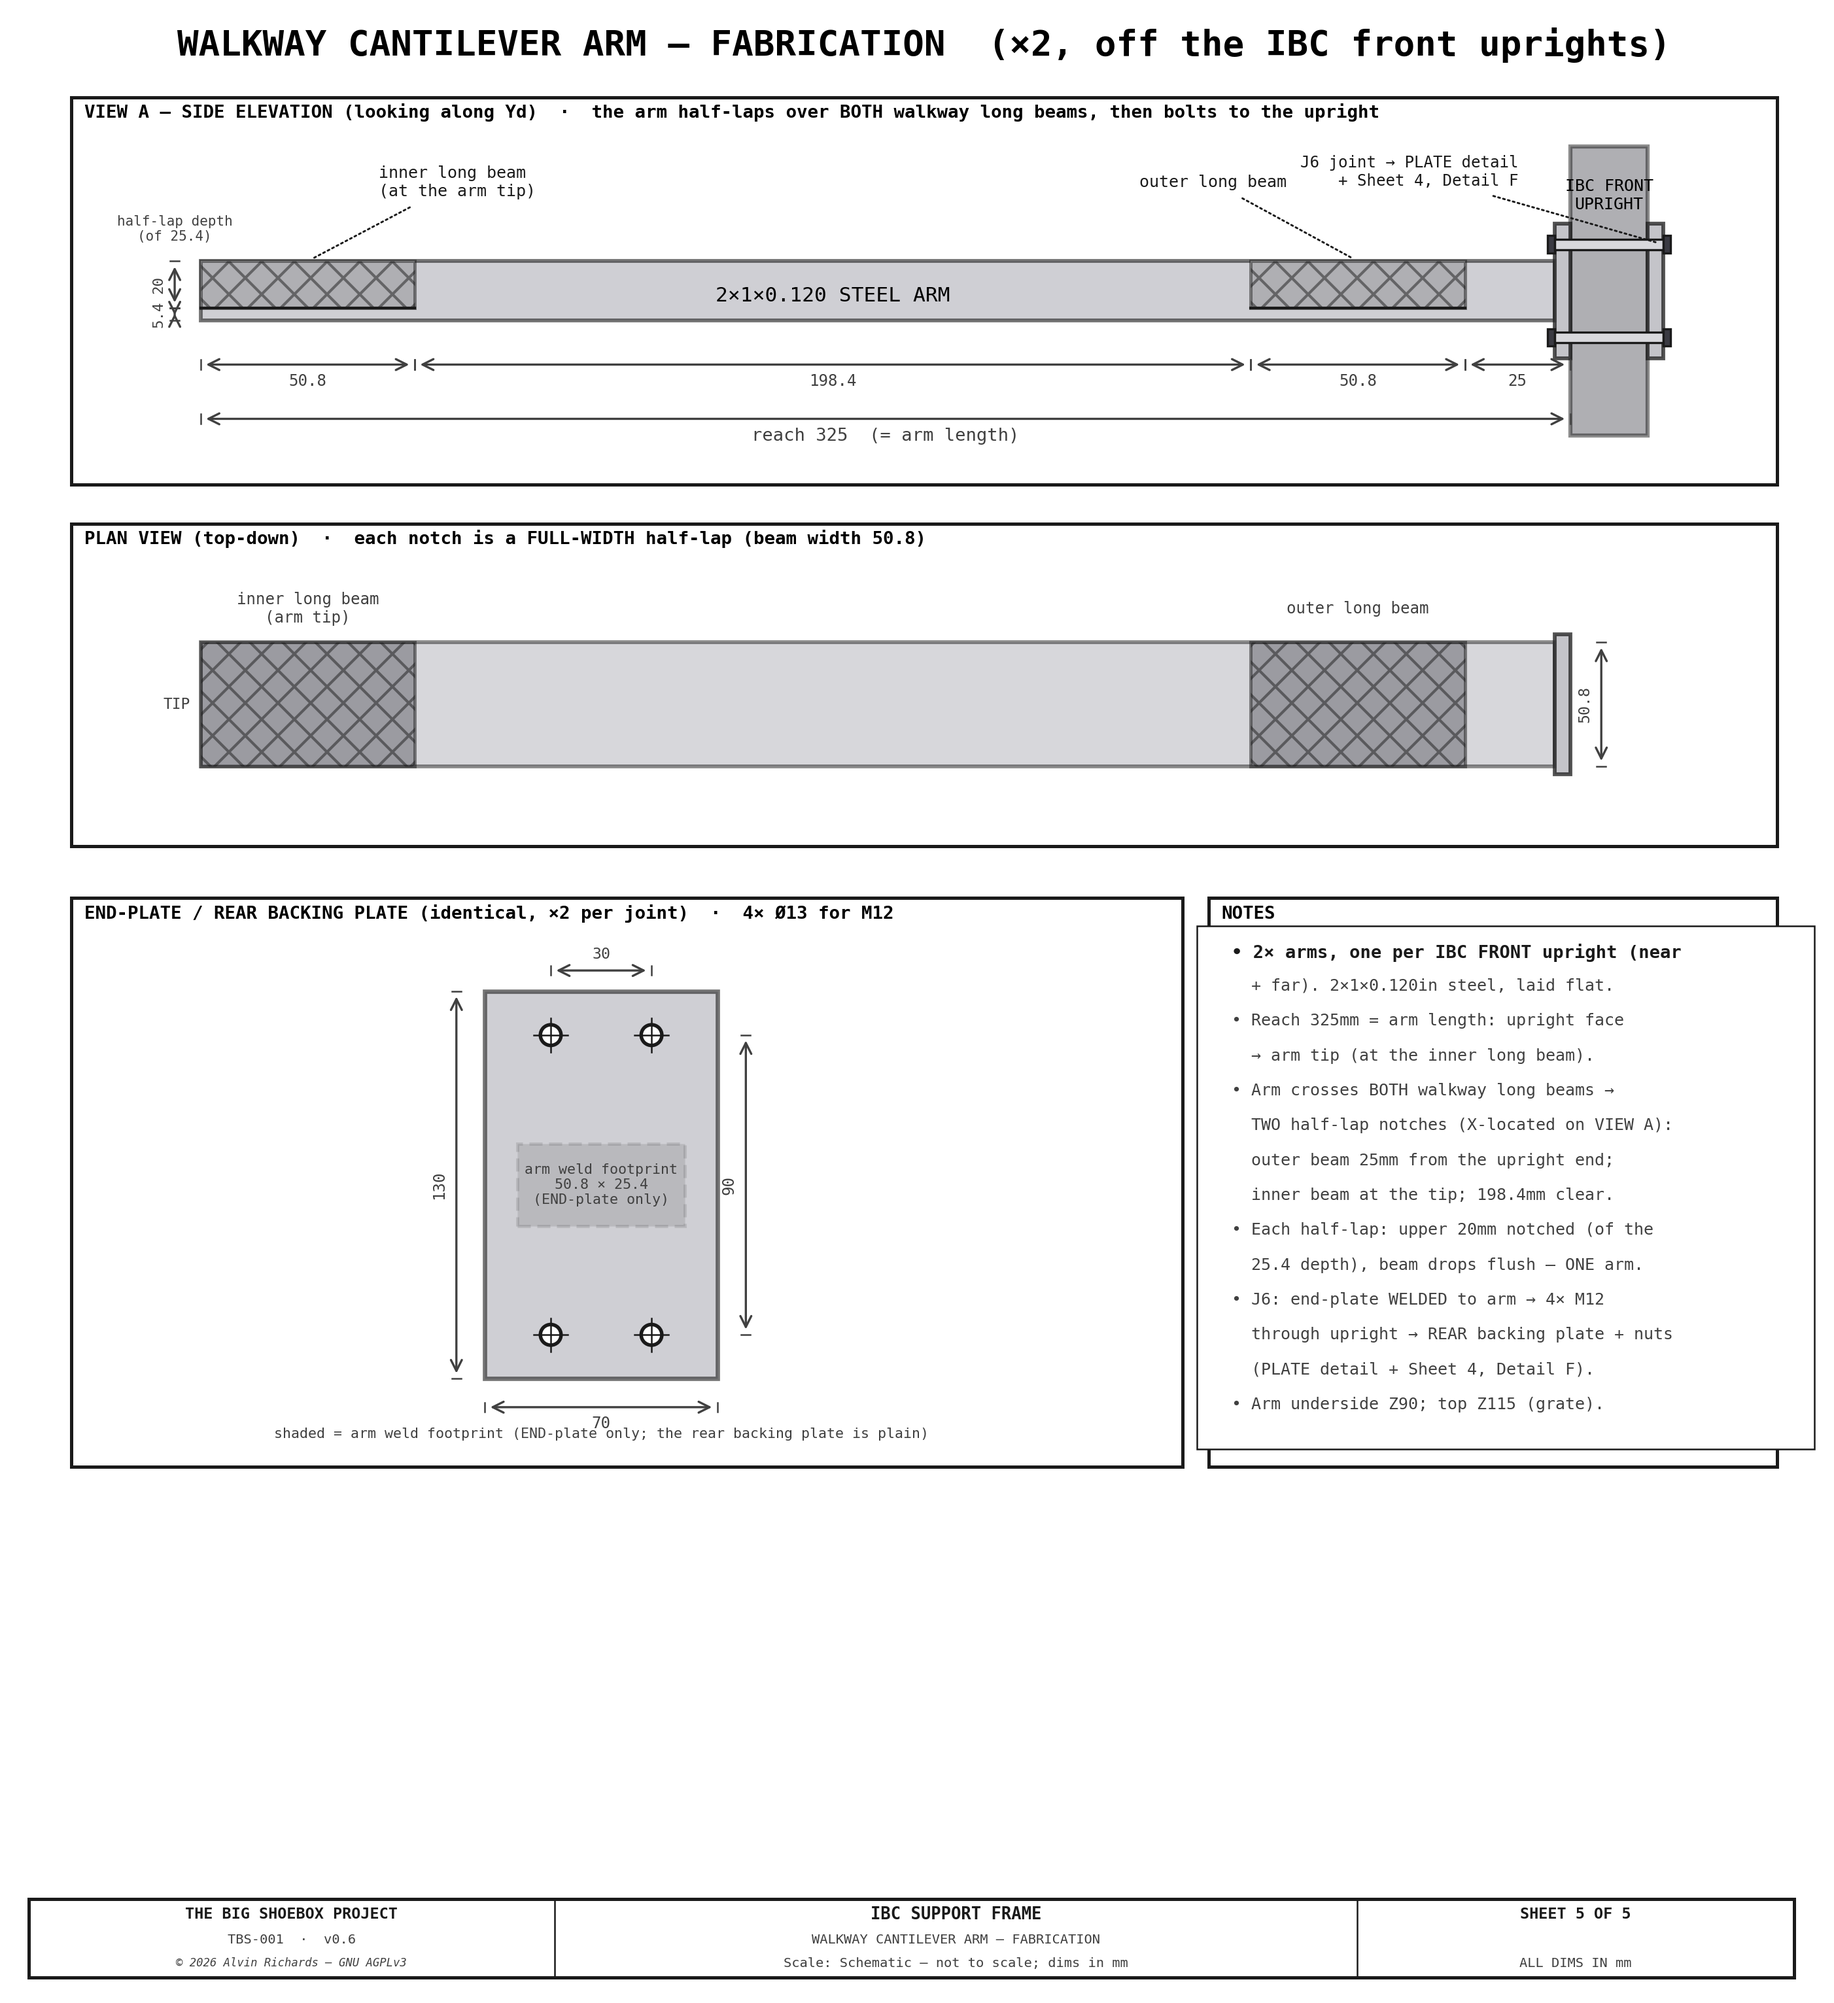
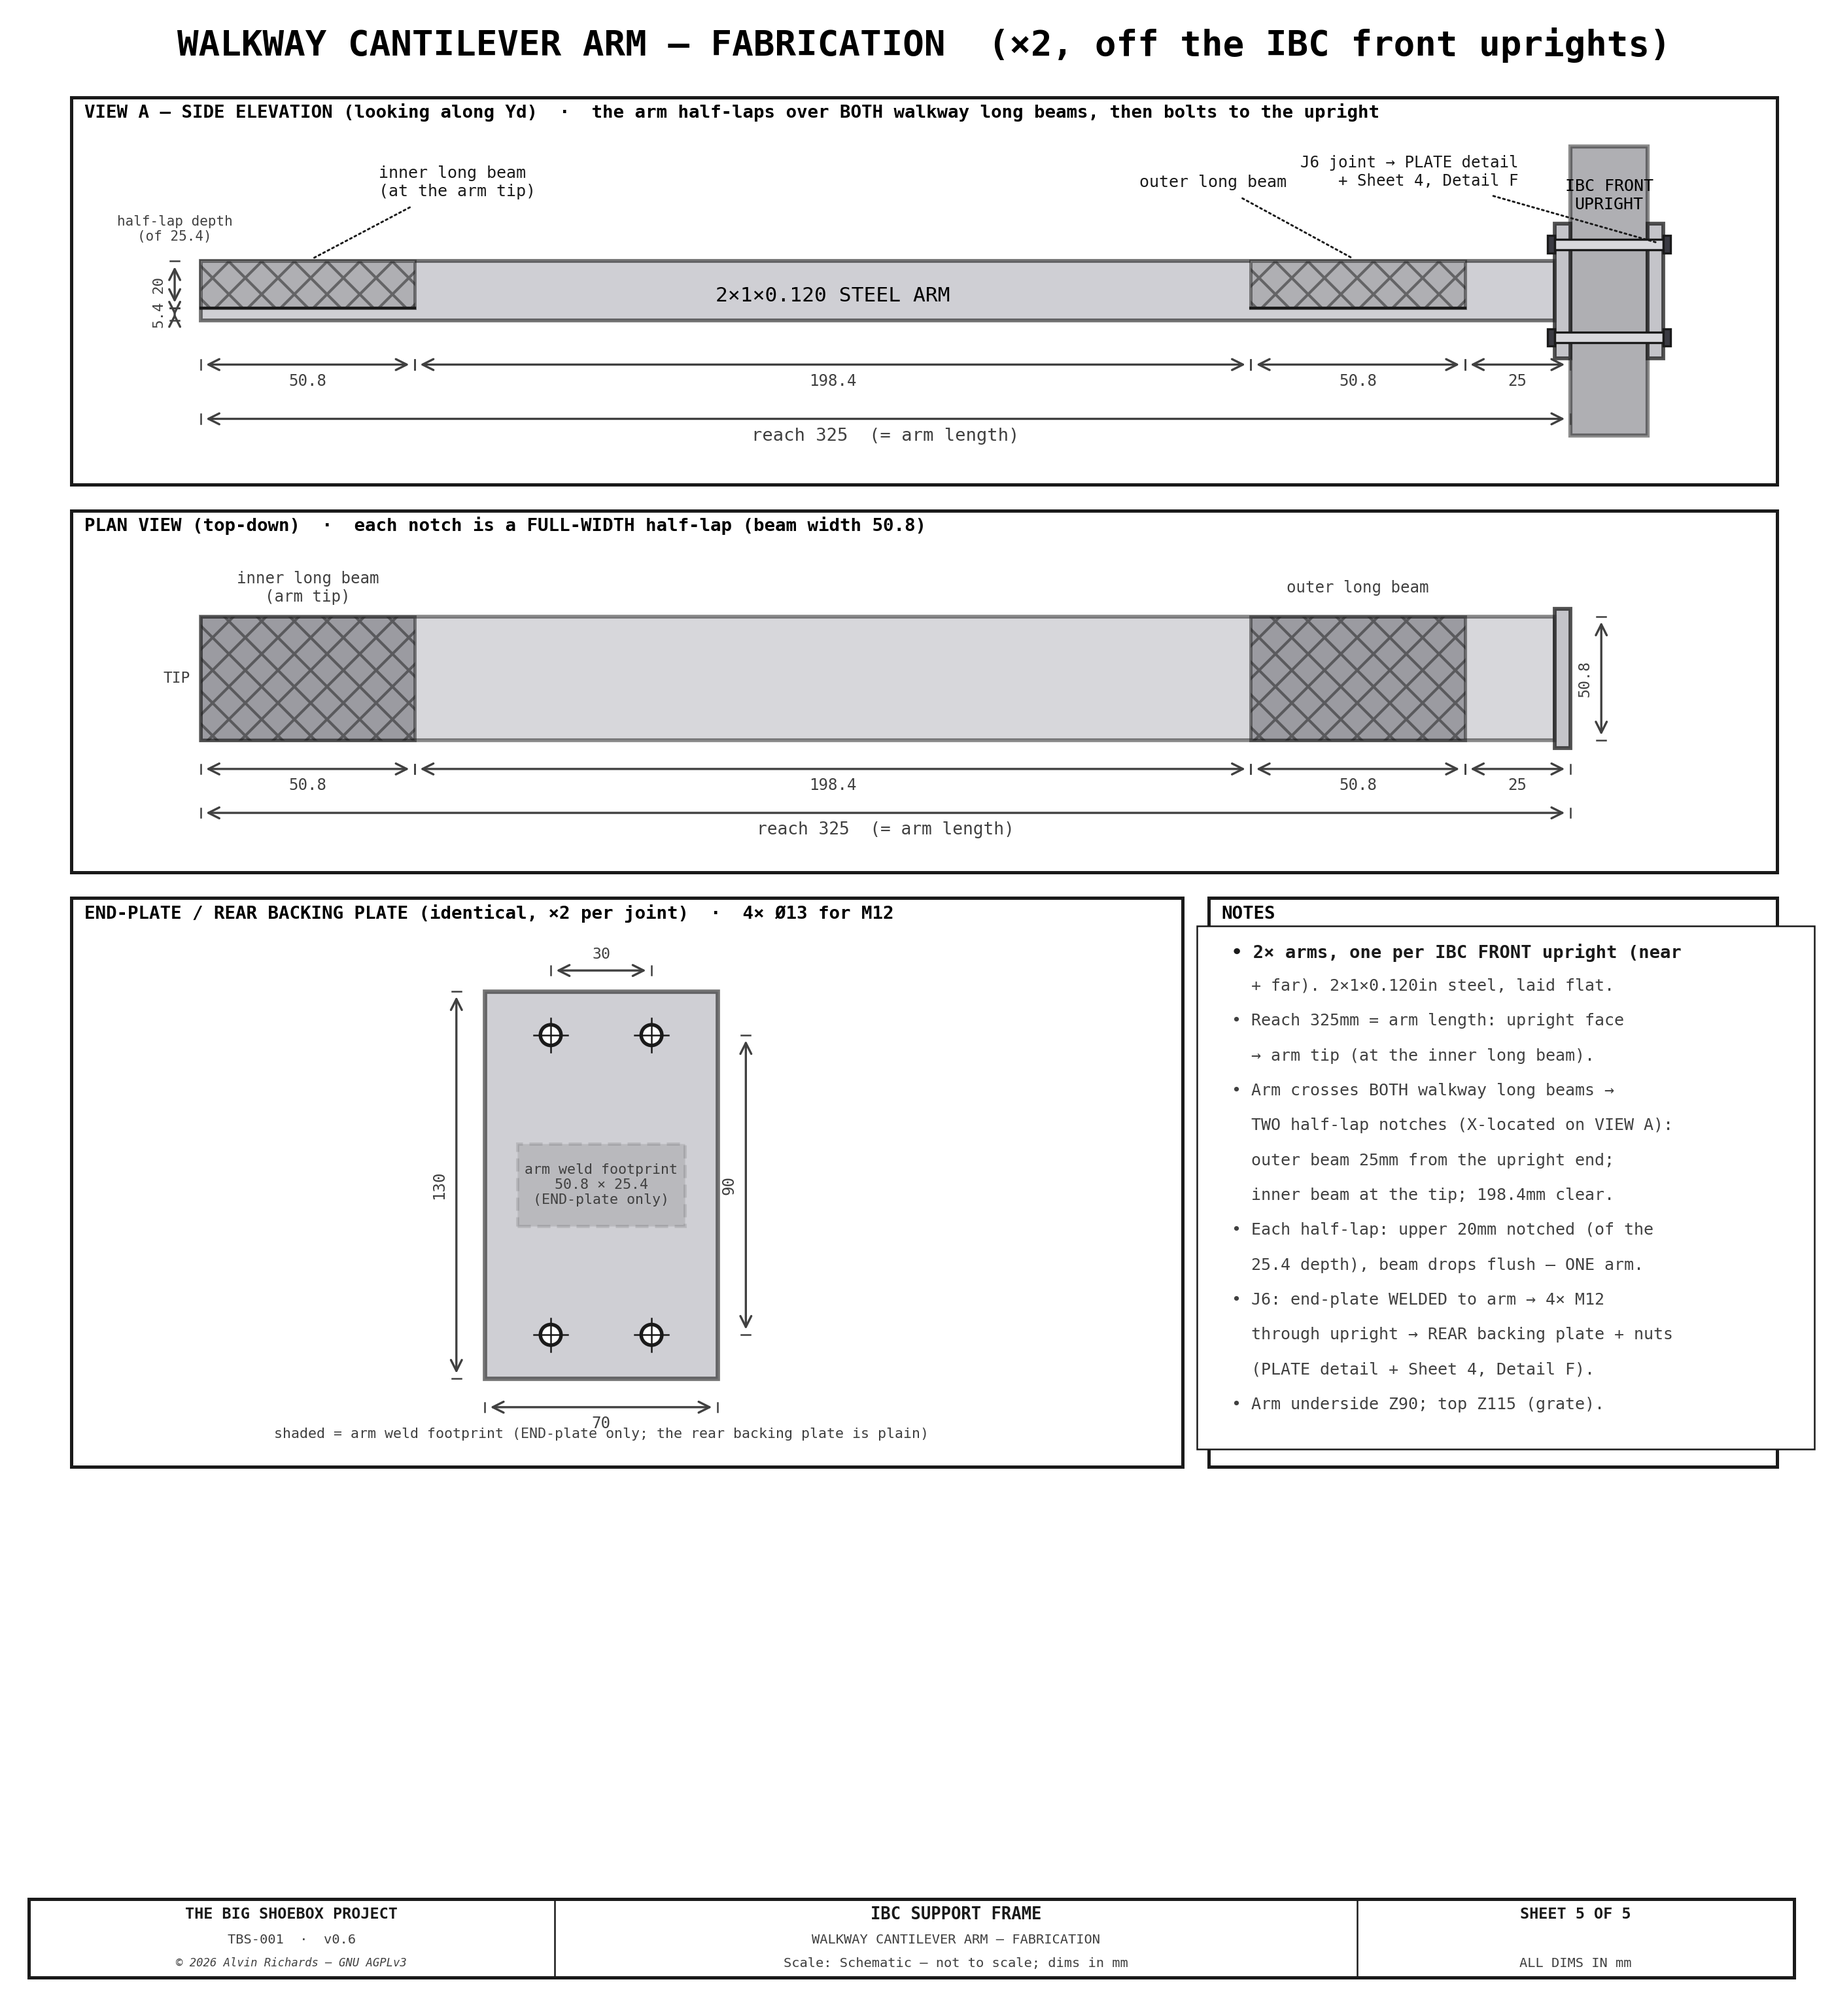
IBC frame Sheet 5: mirror the notch dim_h chain onto the PLAN view
The PLAN view now carries the same longitudinal chain as VIEW A
(50.8 / 198.4 / 50.8 / 25 -> reach 325) below the arm; cell height nudged
to fit it.

Changed region(s): [[0.031, 0.2481, 0.9618, 0.4342]]

diff --git a/src/generators/generate_ibc_frame_drawing.py b/src/generators/generate_ibc_frame_drawing.py
@@ -1293,15 +1293,21 @@ def sheet5():
     draw_dim_h(ax, XT, XUP, zc - 42, "reach 325  (= arm length)", fs=6.5, font=FONT, above=False)
 
     # ── PLAN VIEW — top-down: each half-lap is a full-width crossing (notch = beam width) ──
-    _dcell(ax, 20, 520, 1320, 250, "PLAN VIEW (top-down)  ·  each notch is a FULL-WIDTH half-lap (beam width 50.8)")
-    py, dw = 630, 96                                            # arm centreline (Yd) / drawn width (50.8 exaggerated)
+    _dcell(ax, 20, 500, 1320, 280, "PLAN VIEW (top-down)  ·  each notch is a FULL-WIDTH half-lap (beam width 50.8)")
+    py, dw = 650, 96                                            # arm centreline (Yd) / drawn width (50.8 exaggerated)
     ax.add_patch(Rectangle((XT, py - dw/2), (XUP - ep_x) - XT, dw, fc=C_STEEL, ec=C_OUT, alpha=0.5, lw=1.4, zorder=5))  # arm, top-down
     ax.add_patch(Rectangle((XUP - ep_x, py - dw/2 - 6), ep_x, dw + 12, fc=C_STEEL, ec=C_OUT, alpha=0.75, lw=1.4, zorder=7))  # end-plate edge
     for (n0, n1), lbl in (((XIN0, XIN1), "inner long beam\n(arm tip)"), ((XOUT0, XOUT1), "outer long beam")):
         ax.add_patch(Rectangle((n0, py - dw/2), n1 - n0, dw, lw=1.2, zorder=6, **_hatch))          # notch = beam width, full arm width
-        ax.text((n0 + n1)/2, py + dw/2 + 26, lbl, fontsize=5.8, ha="center", va="center", color=C_DIM, **FONT)
+        ax.text((n0 + n1)/2, py + dw/2 + 22, lbl, fontsize=5.8, ha="center", va="center", color=C_DIM, **FONT)
     ax.text(XT - 8, py, "TIP", fontsize=5.5, ha="right", va="center", color=C_DIM, **FONT)
     draw_dim_v(ax, XUP + 24, py - dw/2, py + dw/2, "50.8", fs=5.6, font=FONT)                       # arm width = beam width
+    zcp = py - dw/2 - 22                                                                            # chain-dim line (mirrors VIEW A)
+    draw_dim_h(ax, XT, XIN1, zcp, "50.8", fs=5.8, font=FONT, above=False)                           # inner notch width
+    draw_dim_h(ax, XIN1, XOUT0, zcp, "198.4", fs=5.8, font=FONT, above=False)                       # clear gap
+    draw_dim_h(ax, XOUT0, XOUT1, zcp, "50.8", fs=5.8, font=FONT, above=False)                       # outer notch width
+    draw_dim_h(ax, XOUT1, XUP, zcp, "25", fs=5.8, font=FONT, above=False)                           # stub to the upright
+    draw_dim_h(ax, XT, XUP, zcp - 34, "reach 325  (= arm length)", fs=6.3, font=FONT, above=False)
 
     # ── END-PLATE — bolt-hole locations, arm weld footprint shadow-marked ──
     _dcell(ax, 20, 40, 860, 440, "END-PLATE / REAR BACKING PLATE (identical, ×2 per joint)  ·  4× Ø13 for M12")
